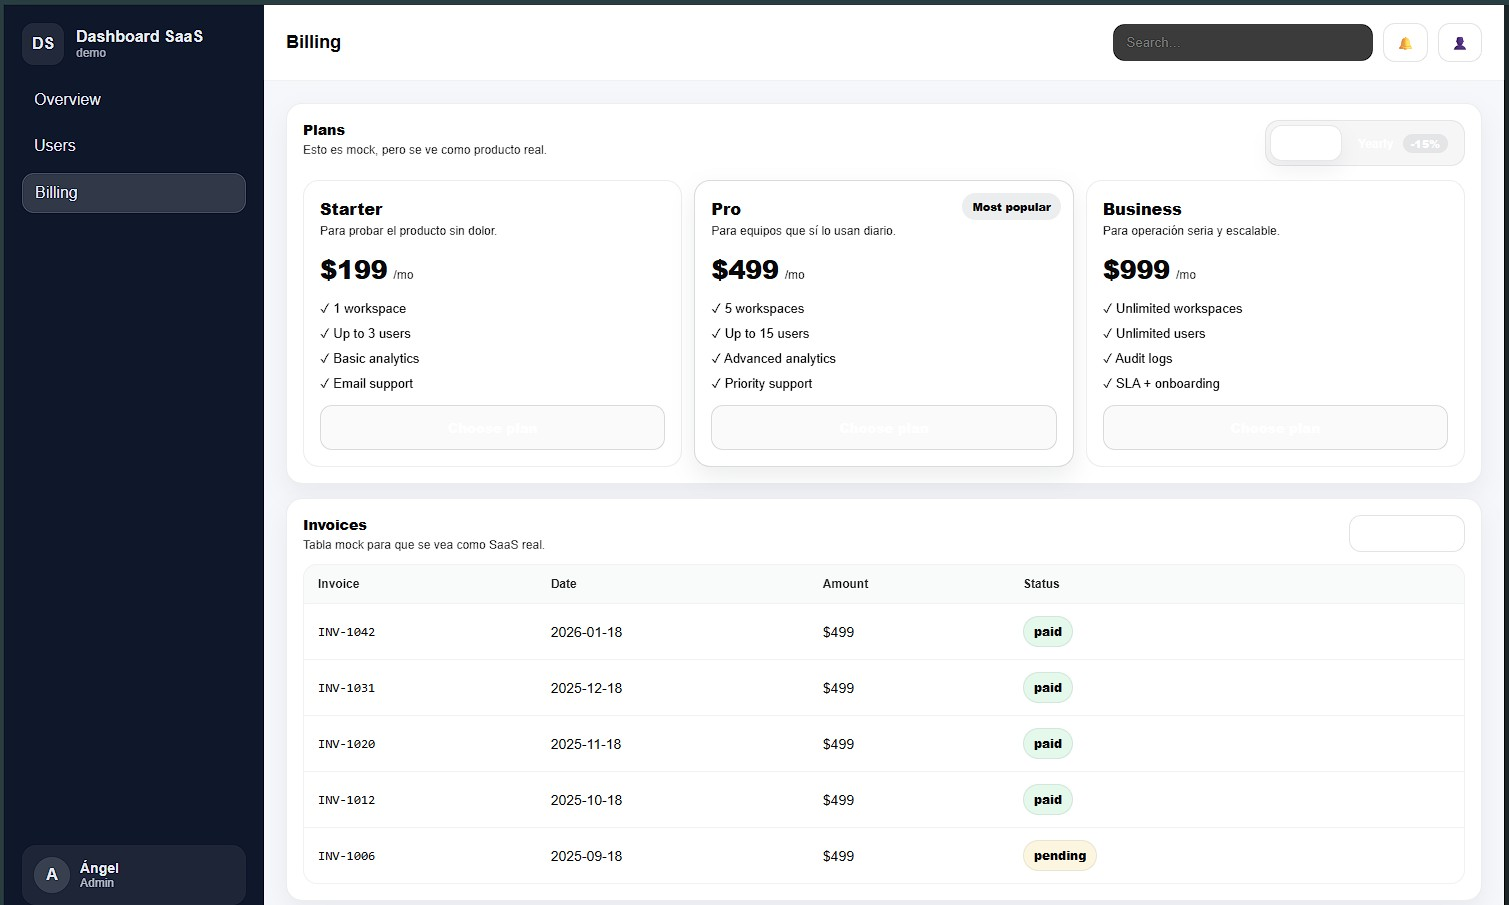
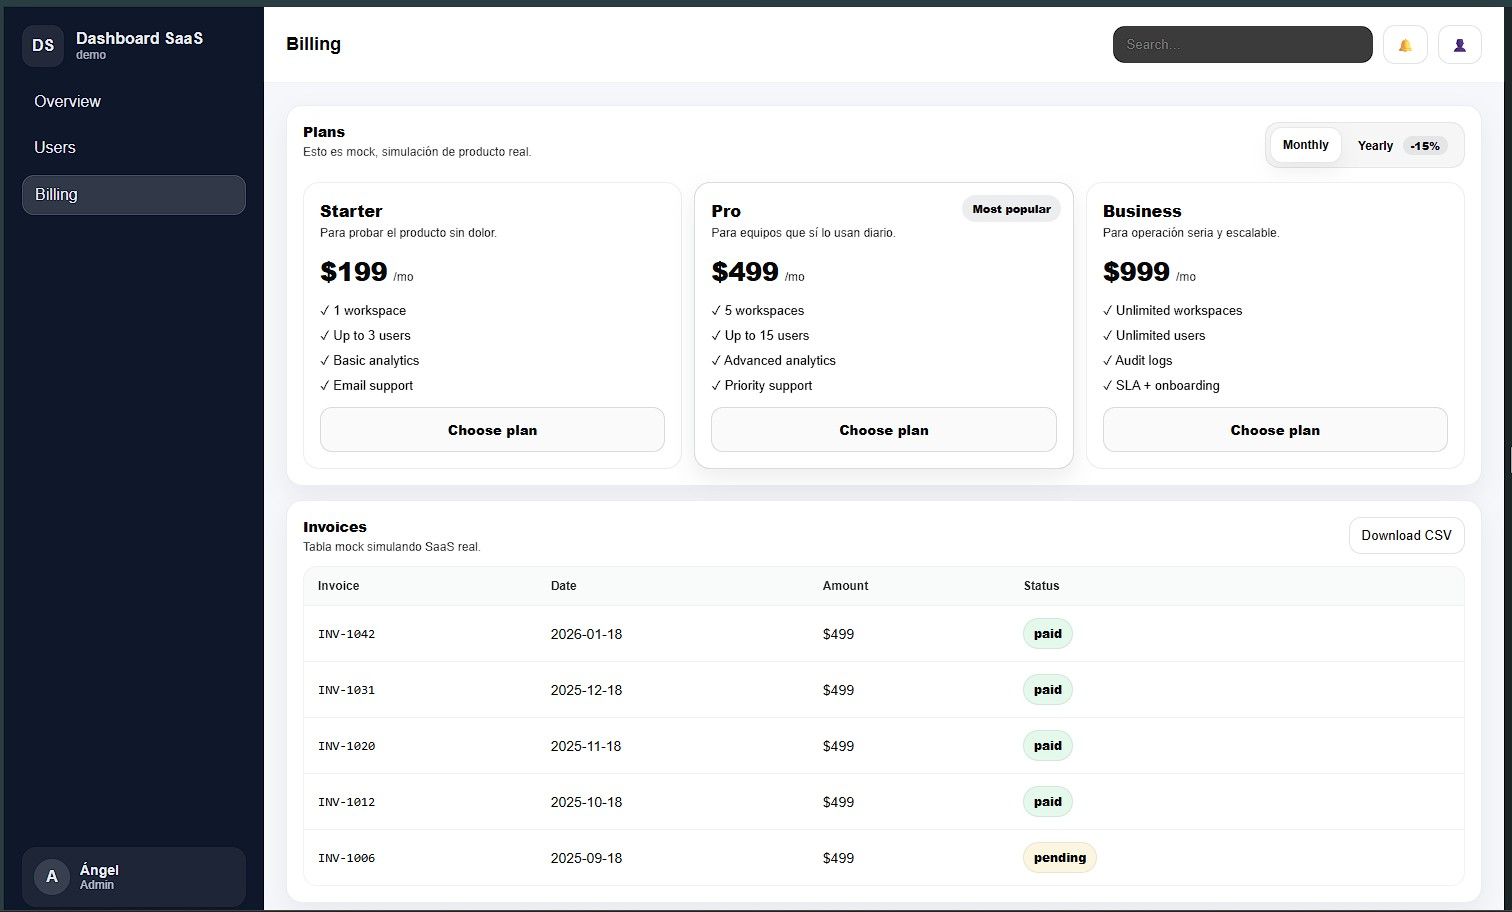
feat: change of styles

diff --git a/src/components/users/UserNotes.tsx b/src/components/users/UserNotes.tsx
@@ -43,6 +43,7 @@ export default function UserNotes({ userId }: { userId: number }) {
             padding: "10px 12px",
             cursor: "pointer",
             fontWeight: 800,
+            color: "#0b0b0b",
           }}
         >
           Clear
@@ -58,6 +59,7 @@ export default function UserNotes({ userId }: { userId: number }) {
             padding: "10px 12px",
             cursor: "pointer",
             fontWeight: 800,
+            color: "#0b0b0b",
           }}
         >
           Save

diff --git a/src/components/charts/SimpleChart.tsx b/src/components/charts/SimpleChart.tsx
@@ -34,7 +34,7 @@ export default function SimpleChart({ data }: { data: Point[] }) {
             <XAxis dataKey="name" hide />
             <YAxis tickFormatter={(v) => `$${Math.round(v / 1000)}k`} />
             <Tooltip
-              formatter={(value: number | undefined, name: string) => [
+              formatter={(value: number | undefined, name: string | undefined) => [
                 name === "revenue"
                   ? `$${(value ?? 0).toLocaleString("es-MX")}`
                   : value,

diff --git a/src/components/billing/InvoicesTable.tsx b/src/components/billing/InvoicesTable.tsx
@@ -29,7 +29,7 @@ export default function InvoicesTable() {
         <div>
           <div className={styles.title}>Invoices</div>
           <div className={styles.subtitle}>
-            Tabla mock para que se vea como SaaS real.
+            Tabla mock simulando SaaS real.
           </div>
         </div>
         <button className={styles.btn} type="button">

diff --git a/src/components/billing/Plans.tsx b/src/components/billing/Plans.tsx
@@ -71,7 +71,7 @@ export default function Plans() {
         <div>
           <div className={styles.title}>Plans</div>
           <div className={styles.subtitle}>
-            Esto es mock, pero se ve como producto real.
+            Esto es mock, simulación de producto real.
           </div>
         </div>
 

diff --git a/src/components/billing/Plans.module.scss b/src/components/billing/Plans.module.scss
@@ -42,6 +42,7 @@
   cursor: pointer;
   font-weight: 700;
   font-size: 12px;
+	color: #0b0b0b;
 }
 
 .active {
@@ -129,6 +130,7 @@
   padding: 12px 12px;
   cursor: pointer;
   font-weight: 800;
+	color: #0b0b0b;
 
   &:hover {
     background: rgba(15, 23, 42, 0.04);

diff --git a/src/components/billing/InvoicesTable.module.scss b/src/components/billing/InvoicesTable.module.scss
@@ -31,6 +31,7 @@
   border-radius: 12px;
   padding: 10px 12px;
   cursor: pointer;
+	color: #0b0b0b;
 
   &:hover {
     background: rgba(15, 23, 42, 0.03);
